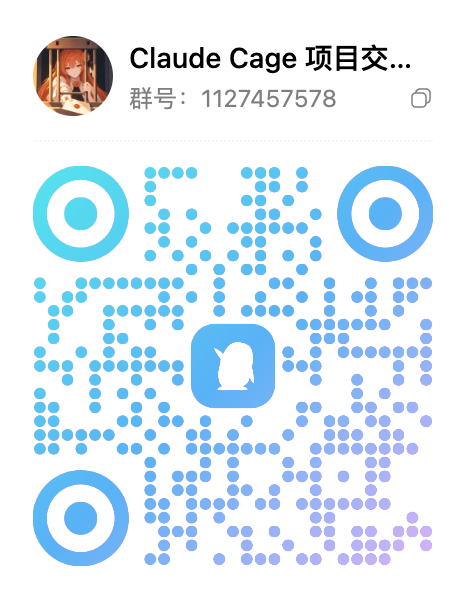
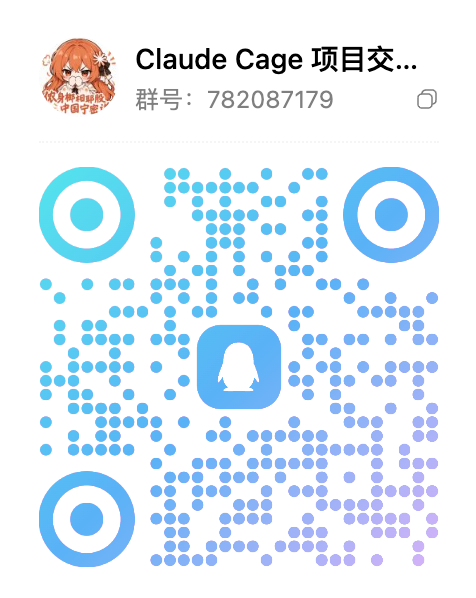
更新社区 QQ 群二维码

diff --git a/www/src/i18n/cage.ts b/www/src/i18n/cage.ts
@@ -65,7 +65,7 @@ function readCopy(language: typeof languages[number]) {
     downloadTitle: installation.title, downloadText: installParagraphs[1],
     downloadNote: installParagraphs[0], updateNote: installParagraphs.at(-1) || '',
     communityTitle: contribution.title, communityText: paragraphs(contribution.body.replace(/<p\b[^>]*>[\s\S]*?<\/p>/g, '')).at(-1) || '',
-    group: isChinese ? 'QQ 二群 · 1127457578' : 'QQ #2 · 1127457578', docsTitle: contribution.title, docs,
+    group: isChinese ? 'QQ 群 · 782087179' : 'QQ group · 782087179', docsTitle: contribution.title, docs,
     licenseTitle: license.title, licenseText: paragraphs(license.body).slice(0,-1).join('\n\n'),
     independent: paragraphs(license.body).at(-1) || '',
   };

diff --git a/README.my.md b/README.my.md
@@ -116,8 +116,8 @@ macOS နှင့် လက်မှတ်ထိုးထားသော Window
 ပရောဂျက်က အရှိန်အဟုန်နဲ့ တိုးတက်နေတယ်။ တုံ့ပြန်ချက်မျှဝေရန် ကွန်မြူနတီအဖွဲ့သို့ ဝင်ရောက်ပါ။ ရပ်ရွာထိန်းသိမ်းသူ များကို ကြိုဆိုပါတယ်။
 
 <p align="center">
-  <a href="assets/community-qq.png"><img src="assets/community-qq.png" alt="QQ #2 · 1127457578" width="240" /></a>
-  <br />QQ #2 · 1127457578
+  <a href="assets/community-qq.png"><img src="assets/community-qq.png" alt="QQ group · 782087179" width="240" /></a>
+  <br />QQ group · 782087179
 </p>
 
 ## မူရင်းနှင့်လိုင်စင်

diff --git a/README.ru.md b/README.ru.md
@@ -116,8 +116,8 @@ macOS и подписанные версии Windows обновляются че
 Проект быстро развивается. Присоединяйтесь к группе сообщества, чтобы поделиться отзывами; сопровождающие сообщества приветствуются.
 
 <p align="center">
-  <a href="assets/community-qq.png"><img src="assets/community-qq.png" alt="QQ #2 · 1127457578" width="240" /></a>
-  <br />QQ #2 · 1127457578
+  <a href="assets/community-qq.png"><img src="assets/community-qq.png" alt="QQ group · 782087179" width="240" /></a>
+  <br />QQ group · 782087179
 </p>
 
 ## Происхождение и лицензирование

diff --git a/README.be.md b/README.be.md
@@ -116,8 +116,8 @@ macOS і падпісаныя версіі Windows абнаўляюцца пра
 Праект імкліва развіваецца. Далучайцеся да групы супольнасці, каб падзяліцца водгукамі; вітаюцца супрацоўнікі супольнасці.
 
 <p align="center">
-  <a href="assets/community-qq.png"><img src="assets/community-qq.png" alt="QQ #2 · 1127457578" width="240" /></a>
-  <br />QQ #2 · 1127457578
+  <a href="assets/community-qq.png"><img src="assets/community-qq.png" alt="QQ group · 782087179" width="240" /></a>
+  <br />QQ group · 782087179
 </p>
 
 ## Паходжанне і ліцэнзаванне

diff --git a/README.fa.md b/README.fa.md
@@ -116,8 +116,8 @@ macOS و نسخههای امضاشدهٔ Windows از پراکسی انتخا
 این پروژه به سرعت در حال پیشرفت است. برای به اشتراک گذاشتن بازخورد به گروه جامعه بپیوندید. از نگهبانان جامعه استقبال می شود.
 
 <p align="center">
-  <a href="assets/community-qq.png"><img src="assets/community-qq.png" alt="QQ #2 · 1127457578" width="240" /></a>
-  <br />QQ #2 · 1127457578
+  <a href="assets/community-qq.png"><img src="assets/community-qq.png" alt="QQ group · 782087179" width="240" /></a>
+  <br />QQ group · 782087179
 </p>
 
 ## مبدا و مجوز

diff --git a/README.prs.md b/README.prs.md
@@ -116,8 +116,8 @@ macOS و نسخههای امضاشدهٔ Windows از پراکسی انتخا
 این پروژه به سرعت در حال پیشرفت است. برای به اشتراک گذاشتن بازخورد به گروه جامعه بپیوندید. از نگهبانان جامعه استقبال می شود.
 
 <p align="center">
-  <a href="assets/community-qq.png"><img src="assets/community-qq.png" alt="QQ #2 · 1127457578" width="240" /></a>
-  <br />QQ #2 · 1127457578
+  <a href="assets/community-qq.png"><img src="assets/community-qq.png" alt="QQ group · 782087179" width="240" /></a>
+  <br />QQ group · 782087179
 </p>
 
 ## مبدا و مجوز

diff --git a/README.ps.md b/README.ps.md
@@ -116,8 +116,8 @@ macOS او لاسلیک شوې Windows نسخې د ټاکلي پراکسي له 
 پروژه په چټکۍ سره وده کوي. د نظر شریکولو لپاره د ټولنې ګروپ کې ګډون وکړئ؛ د ټولنې ساتونکي ښه راغلاست.
 
 <p align="center">
-  <a href="assets/community-qq.png"><img src="assets/community-qq.png" alt="QQ #2 · 1127457578" width="240" /></a>
-  <br />QQ #2 · 1127457578
+  <a href="assets/community-qq.png"><img src="assets/community-qq.png" alt="QQ group · 782087179" width="240" /></a>
+  <br />QQ group · 782087179
 </p>
 
 ## اصل او جواز ورکول

diff --git a/README.es.md b/README.es.md
@@ -116,8 +116,8 @@ Para consultar el índice completo, consulte [Índice de documentación](docs/RE
 El proyecto está evolucionando rápidamente. Únase al grupo comunitario para compartir comentarios; Los mantenedores de la comunidad son bienvenidos.
 
 <p align="center">
-  <a href="assets/community-qq.png"><img src="assets/community-qq.png" alt="QQ #2 · 1127457578" width="240" /></a>
-  <br />QQ #2 · 1127457578
+  <a href="assets/community-qq.png"><img src="assets/community-qq.png" alt="QQ group · 782087179" width="240" /></a>
+  <br />QQ group · 782087179
 </p>
 
 ## Orígenes y licencias

diff --git a/README.so.md b/README.so.md
@@ -116,8 +116,8 @@ Si aad u hesho tusmada buuxda, eeg [Tusmada dhokumentiyada](docs/README.md).
 Mashruucu si xawli ah ayuu u socdaa. Ku biir kooxda bulshada si aad ula wadaagto jawaab celinta; ilaaliyayaasha bulshada waa la soo dhawaynayaa.
 
 <p align="center">
-  <a href="assets/community-qq.png"><img src="assets/community-qq.png" alt="QQ #2 · 1127457578" width="240" /></a>
-  <br />QQ #2 · 1127457578
+  <a href="assets/community-qq.png"><img src="assets/community-qq.png" alt="QQ group · 782087179" width="240" /></a>
+  <br />QQ group · 782087179
 </p>
 
 ## Asalka iyo shatiga
